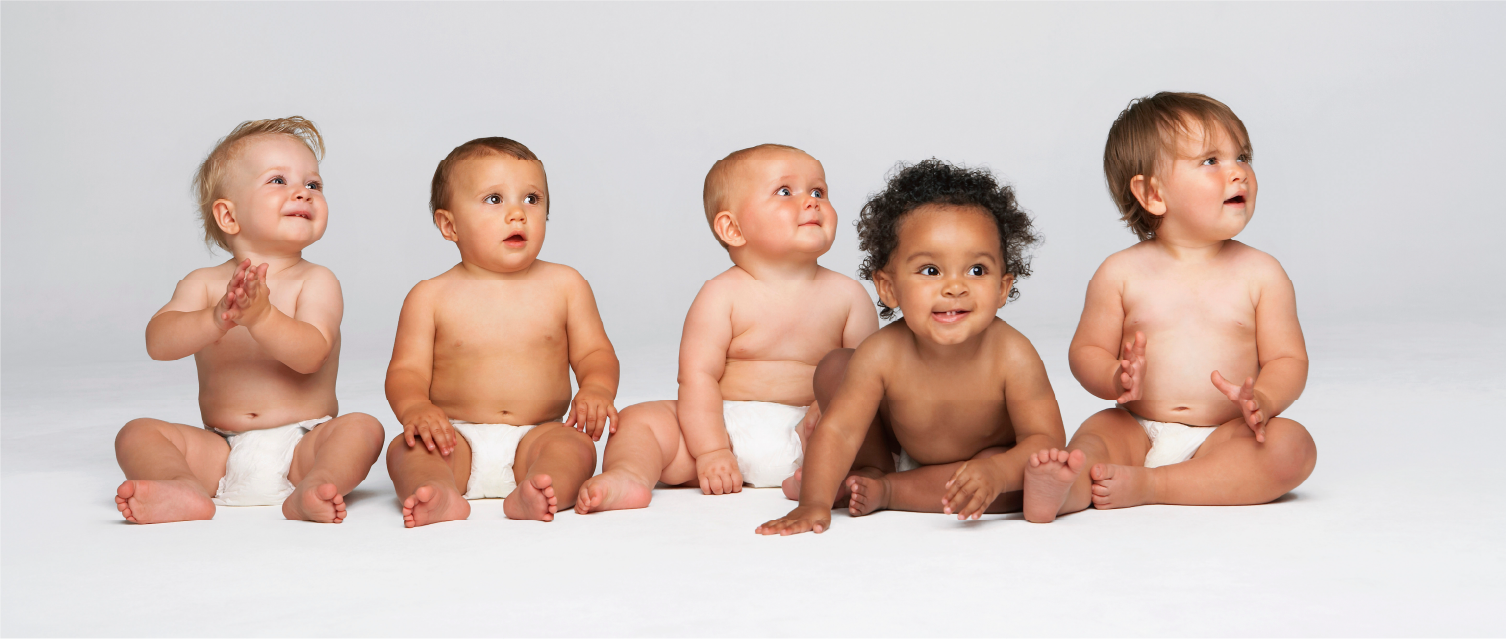
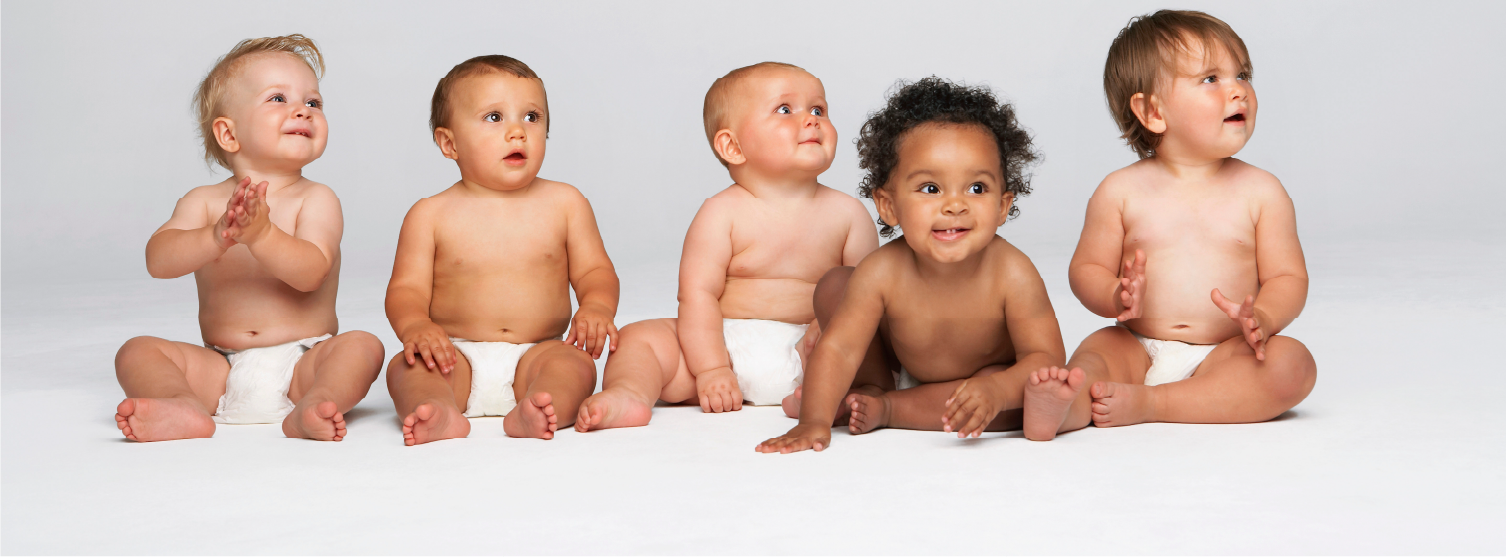
header images + styling updates

diff --git a/src/routes/contact/+page.svelte b/src/routes/contact/+page.svelte
@@ -3,15 +3,17 @@
 </script>
 
 <svelte:head>
-  <title>Contact Me - Lactation Success</title>
+  <title>Contact Me - Lactation Success LLC</title>
   <meta name="description" content="Contact Carolyn Mosier, International Board Certified Lactation Consultant, RN, and Advanced Practice Nurse serving the Northern Virginia, Maryland, and DC areas." />
 </svelte:head>
 
 <!-- Header -->
-<section class="bg-gradient-to-b from-blue-50 to-white py-20">
+<section class="bg-cover bg-center py-20" style="background-image: linear-gradient(rgba(255, 255, 255, 0.9), rgba(255, 255, 255, 0.75)), url('/images/peony.jpg');">
   <div class="max-w-7xl mx-auto px-4 sm:px-6 lg:px-8">
     <div class="text-center">
-      <h1 class="text-5xl font-serif text-gray-900 mb-6">Contact Me</h1>
+      <h1 class="text-4xl font-serif text-blue-900 sm:text-5xl md:text-6xl">
+        <span class="block">Contact Me</span>
+      </h1>
       <p class="mt-4 text-xl text-gray-600 max-w-2xl mx-auto">I'm dedicated to supporting your breastfeeding journey</p>
     </div>
   </div>
@@ -21,43 +23,14 @@
 <section class="py-16">
   <div class="max-w-7xl mx-auto px-4 sm:px-6 lg:px-8">
     <div class="grid grid-cols-1 lg:grid-cols-2 gap-12">
-      <!-- Professional Information -->
-      <div class="space-y-8">
-        <div class="bg-white rounded-xl shadow-lg p-8 border border-blue-100">
-          <h2 class="text-2xl font-serif text-blue-900 mb-6">Professional Background</h2>
-          <div class="space-y-4 text-gray-600">
-            <p>
-              I am an International Board Certified Lactation Consultant, RN, and Advanced Practice Nurse. With years of experience in various healthcare settings, I bring a comprehensive approach to lactation support.
-            </p>
-            <p>
-              My professional journey includes extensive experience as a NICU nurse, where I provided comprehensive care, including assisting breastfeeding mothers. More recently, I've focused on providing comprehensive lactation support across different stages - from prenatal preparation through postpartum care, in both inpatient and outpatient settings.
-            </p>
-          </div>
-        </div>
-
-        <div class="bg-white rounded-xl shadow-lg p-8 border border-blue-100">
-          <h2 class="text-2xl font-serif text-blue-900 mb-6">My Approach</h2>
-          <p class="text-gray-600">
-            My philosophy centers on meeting mothers and babies where they are and developing strategies that maximize their success. I believe in understanding each mother's unique goals, addressing their specific concerns, and providing supportive guidance throughout their breastfeeding journey.
-          </p>
-        </div>
-
-        <div class="bg-white rounded-xl shadow-lg p-8 border border-blue-100">
-          <h2 class="text-2xl font-serif text-blue-900 mb-6">Personal Experience</h2>
-          <p class="text-gray-600">
-            As a mother of four wonderful breastfed children who are now starting families of their own, I understand firsthand the joys and challenges of breastfeeding. My husband and I both served in the United States Navy, giving me unique insight into the challenges faced by busy working active duty families.
-          </p>
-        </div>
-      </div>
-
+      <!-- Contact Information -->
       <div>
-        <!-- Contact Information -->
         <div class="bg-white rounded-xl shadow-lg p-8 border border-blue-100 hover:shadow-xl transition-shadow duration-300">
           <!-- Profile Section -->
           <div class="text-center mb-8 pb-6 border-b border-blue-100">
             <div class="w-48 h-48 rounded-xl overflow-hidden border-4 border-white shadow-lg mb-6 mx-auto">
               <img
-                src="/images/las vegas-cropped.jpg"
+                src="/images/mirror-crop.jpg"
                 alt="Carolyn Mosier, IBCLC"
                 class="w-full h-full object-cover"
               />
@@ -118,6 +91,35 @@
               It is a privilege to share my experience and expertise with mothers throughout their breastfeeding journey. Please feel free to reach out to discuss how I can support you in achieving your breastfeeding goals.
             </p>
           </div>
+        </div>
+      </div>
+      
+      <!-- Professional Information -->
+      <div class="space-y-8">
+        <div class="bg-white rounded-xl shadow-lg p-8 border border-blue-100">
+          <h2 class="text-2xl font-serif text-blue-900 mb-6">Professional Background</h2>
+          <div class="space-y-4 text-gray-600">
+            <p>
+              I am an International Board Certified Lactation Consultant, RN, and Advanced Practice Nurse. With years of experience in various healthcare settings, I bring a comprehensive approach to lactation support.
+            </p>
+            <p>
+              My professional journey includes extensive experience as a NICU nurse, where I provided comprehensive care, including assisting breastfeeding mothers. More recently, I've focused on providing comprehensive lactation support across different stages - from prenatal preparation through postpartum care, in both inpatient and outpatient settings.
+            </p>
+          </div>
+        </div>
+
+        <div class="bg-white rounded-xl shadow-lg p-8 border border-blue-100">
+          <h2 class="text-2xl font-serif text-blue-900 mb-6">My Approach</h2>
+          <p class="text-gray-600">
+            My philosophy centers on meeting mothers and babies where they are and developing strategies that maximize their success. I believe in understanding each mother's unique goals, addressing their specific concerns, and providing supportive guidance throughout their breastfeeding journey.
+          </p>
+        </div>
+
+        <div class="bg-white rounded-xl shadow-lg p-8 border border-blue-100">
+          <h2 class="text-2xl font-serif text-blue-900 mb-6">Personal Experience</h2>
+          <p class="text-gray-600">
+            As a mother of four wonderful breastfed children who are now starting families of their own, I understand firsthand the joys and challenges of breastfeeding. My husband and I both served in the United States Navy, giving me unique insight into the challenges faced by busy working active duty families.
+          </p>
         </div>
       </div>
     </div>

diff --git a/src/routes/+page.svelte b/src/routes/+page.svelte
@@ -3,7 +3,7 @@
 </script>
 
 <svelte:head>
-  <title>Lactation Success - Professional Breastfeeding Support in Northern Virginia, Maryland, and DC</title>
+  <title>Lactation Success LLC - Professional Breastfeeding Support in Northern Virginia, Maryland, and DC</title>
   <meta name="description" content="Professional lactation consulting services in Northern Virginia, Maryland, and DC areas. Develop a predictable feeding routine and bond with your baby." />
 </svelte:head>
 
@@ -11,7 +11,7 @@
 <section class="bg-gradient-to-b from-blue-50 to-white py-24 relative">
   <!-- Logo Overlay -->
   <div class="absolute left-16 top-1/2 -translate-y-1/2 hidden lg:block">
-    <img src="/images/stock-temp-logo-blue.svg" alt="Lactation Success Logo" class="h-[500px] object-contain opacity-90" />
+    <img src="/images/stock-temp-logo-blue.svg" alt="Lactation Success LLC Logo" class="h-[500px] object-contain opacity-90" />
   </div>
   
   <div class="max-w-7xl mx-auto px-4 sm:px-6 lg:px-8">
@@ -25,7 +25,7 @@
       <!-- Profile Card -->
       <div class="mt-12 flex flex-col items-center">
         <div class="w-32 h-32 md:w-52 md:h-52 rounded-full overflow-hidden border-4 border-white shadow-lg mb-4">
-          <img src="/images/las vegas-cropped.jpg" alt="Carolyn Mosier" class="w-full h-full object-cover" />
+          <img src="/images/mirror-crop.jpg" alt="Carolyn Mosier" class="w-full h-full object-cover" />
         </div>
         <div class="text-center">
           <h2 class="text-2xl text-blue-900 mb-2">Carolyn Mosier</h2>
@@ -90,7 +90,7 @@
   
   <div class="max-w-7xl mx-auto px-4 sm:px-6 lg:px-8 relative">
     <div class="text-center">
-      <h2 class="text-3xl font-serif text-blue-950 sm:text-4xl">Why Choose Lactation Success</h2>
+      <h2 class="text-3xl font-serif text-blue-950 sm:text-4xl">Why Choose Lactation Success LLC</h2>
       <p class="mt-4 text-xl text-blue-900 max-w-3xl mx-auto">Every woman and baby's feeding journey is personal. I'm here to give you the confidence and guidance to find joy in that journey.</p>
     </div>
 

diff --git a/src/lib/components/Navbar.svelte b/src/lib/components/Navbar.svelte
@@ -25,9 +25,10 @@
     <div class="flex justify-between h-20">
       <div class="flex items-center">
         <a href="/" class="flex-shrink-0 flex items-center">
-          <span class="text-2xl font-medium tracking-tight">
+          <span class="text-3xl md:text-4xl font-medium tracking-tight">
             <span class="text-blue-900">Lactation</span>
             <span class="text-blue-700">Success</span>
+            <span class="text-blue-700 xs:inline">LLC</span>
           </span>
         </a>
       </div>
@@ -37,7 +38,7 @@
         {#each navItems as item}
           <a
             href={item.href}
-            class="text-gray-700 hover:text-blue-800 px-4 py-2 text-base font-medium transition-colors duration-200 hover:bg-blue-50 rounded-md {$page.url.pathname === item.href ? 'text-blue-800 bg-blue-50 font-semibold' : ''}"
+            class="text-gray-700 hover:text-blue-800 px-4 py-2 text-lg font-medium transition-colors duration-200 hover:bg-blue-50 rounded-md {$page.url.pathname === item.href ? 'text-blue-800 bg-blue-50 font-semibold' : ''}"
           >
             {item.label}
           </a>
@@ -45,7 +46,7 @@
       </div>
 
       <!-- Mobile menu button -->
-      <div class="md:hidden flex items-center">
+      <div class="md:hidden flex items-center ml-2">
         <button
           on:click={toggleMenu}
           class="inline-flex items-center justify-center p-2 rounded-md text-gray-700 hover:text-blue-900 focus:outline-none"
@@ -85,7 +86,7 @@
           <a
             href={item.href}
             on:click={closeMenu}
-            class="block px-4 py-3 text-lg font-medium text-gray-700 hover:text-blue-800 hover:bg-blue-50 transition-colors duration-200 {$page.url.pathname === item.href ? 'text-blue-800 bg-blue-50 font-semibold' : ''}"
+            class="block px-4 py-3 text-xl font-medium text-gray-700 hover:text-blue-800 hover:bg-blue-50 transition-colors duration-200 {$page.url.pathname === item.href ? 'text-blue-800 bg-blue-50 font-semibold' : ''}"
           >
             {item.label}
           </a>

diff --git a/src/routes/insurance/+page.svelte b/src/routes/insurance/+page.svelte
@@ -3,15 +3,17 @@
 </script>
 
 <svelte:head>
-  <title>Insurance Coverage - Lactation Success</title>
+  <title>Insurance Coverage - Lactation Success LLC</title>
   <meta name="description" content="Learn about insurance coverage for lactation consulting services. Many insurance plans cover breastfeeding support and lactation consultations." />
 </svelte:head>
 
 <!-- Header -->
-<section class="bg-cover bg-center py-20" style="background-image: linear-gradient(rgba(255, 255, 255, 0.95), rgba(255, 255, 255, 0.6)), url('/images/stock-babies.jpeg');">
+<section class="bg-cover bg-center py-20" style="background-image: linear-gradient(rgba(255, 255, 255, 0.95), rgba(255, 255, 255, 0.6)), url('/images/stock-babies-crop2.jpeg');">
   <div class="max-w-7xl mx-auto px-4 sm:px-6 lg:px-8">
     <div class="text-center">
-      <h1 class="text-5xl font-serif text-gray-900 mb-6">Insurance Coverage</h1>
+      <h1 class="text-4xl font-serif text-blue-900 sm:text-5xl md:text-6xl">
+        <span class="block">Insurance Coverage</span>
+      </h1>
       <p class="mt-4 text-xl text-gray-600 max-w-2xl mx-auto">Understanding your benefits for professional lactation support services to help you on your breastfeeding journey.</p>
     </div>
   </div>

diff --git a/src/routes/faq/+page.svelte b/src/routes/faq/+page.svelte
@@ -52,15 +52,17 @@
 </script>
 
 <svelte:head>
-  <title>Frequently Asked Questions - Lactation Success</title>
+  <title>Frequently Asked Questions - Lactation Success LLC</title>
   <meta name="description" content="Find answers to common questions about lactation consulting services, insurance coverage, and what to expect during consultations." />
 </svelte:head>
 
 <!-- Header -->
-<section class="bg-gradient-to-b from-blue-50 to-white py-20">
+<section class="bg-cover bg-center py-20" style="background-image: linear-gradient(rgba(255, 255, 255, 0.95), rgba(255, 255, 255, 0.6)), url('/images/stock-sleeping-baby.jpeg');">
   <div class="max-w-7xl mx-auto px-4 sm:px-6 lg:px-8">
     <div class="text-center">
-      <h1 class="text-5xl font-serif text-gray-900 mb-6">Frequently Asked Questions</h1>
+      <h1 class="text-4xl font-serif text-blue-900 sm:text-5xl md:text-6xl">
+        <span class="block">Frequently Asked Questions</span>
+      </h1>
       <p class="mt-4 text-xl text-gray-600 max-w-2xl mx-auto">Find answers to common questions about our services</p>
     </div>
   </div>

diff --git a/src/app.html b/src/app.html
@@ -5,7 +5,7 @@
 		<link rel="icon" href="%sveltekit.assets%/favicon.png" />
 		<meta name="viewport" content="width=device-width, initial-scale=1" />
 		<meta name="robots" content="index, follow" />
-		<meta property="og:title" content="Lactation Success | Professional Breastfeeding Support" />
+		<meta property="og:title" content="Lactation Success LLC | Professional Breastfeeding Support" />
 		<meta property="og:description" content="Professional lactation consulting services in Northern Virginia, Maryland, and DC areas." />
 		<meta property="og:image" content="%sveltekit.assets%/og-image.jpg" />
 		<meta name="twitter:card" content="summary_large_image" />
@@ -14,7 +14,7 @@
 		{
 		  "@context": "https://schema.org",
 		  "@type": "MedicalBusiness",
-		  "name": "Lactation Success",
+		  "name": "Lactation Success LLC",
 		  "image": "%sveltekit.assets%/og-image.jpg",
 		  "address": {
 			"@type": "PostalAddress",

diff --git a/src/lib/components/Footer.svelte b/src/lib/components/Footer.svelte
@@ -7,7 +7,7 @@
     <div class="grid grid-cols-1 md:grid-cols-4 gap-8">
       <!-- Company Info -->
       <div class="col-span-1 md:col-span-2">
-        <h3 class="text-lg font-serif text-blue-900 mb-4">Lactation Success</h3>
+        <h3 class="text-lg font-serif text-blue-900 mb-4">Lactation Success LLC</h3>
         <p class="text-gray-600 mb-4">
           Supporting mothers and babies in Northern Virginia, Maryland, and DC areas with professional lactation consulting services.
         </p>
@@ -49,7 +49,7 @@
     <!-- Bottom Bar -->
     <div class="mt-12 pt-8 border-t border-gray-200">
       <p class="text-center text-gray-500 text-sm">
-        © {currentYear} Lactation Success. All rights reserved.
+        © {currentYear} Lactation Success LLC. All rights reserved.
       </p>
     </div>
   </div>

diff --git a/src/routes/+layout.svelte b/src/routes/+layout.svelte
@@ -9,7 +9,7 @@
 </script>
 
 <svelte:head>
-  <title>Lactation Success | Professional Breastfeeding Support</title>
+  <title>Lactation Success LLC | Professional Breastfeeding Support</title>
   <meta name="description" content="Professional in-home and telehealth breastfeeding support by Carolyn Mosier APRN, IBCLC, RLC" />
   <link rel="icon" href="/favicon.svg" type="image/svg+xml" />
   <link rel="icon" href="/favicon.ico" sizes="any" />

diff --git a/src/routes/services/+page.svelte b/src/routes/services/+page.svelte
@@ -3,7 +3,7 @@
 </script>
 
 <svelte:head>
-  <title>Services - Lactation Success</title>
+  <title>Services - Lactation Success LLC</title>
   <meta name="description" content="Professional lactation consulting services including prenatal counseling, latch assistance, milk supply management, and support for special situations in Northern Virginia, Maryland, and DC areas." />
 </svelte:head>
 
